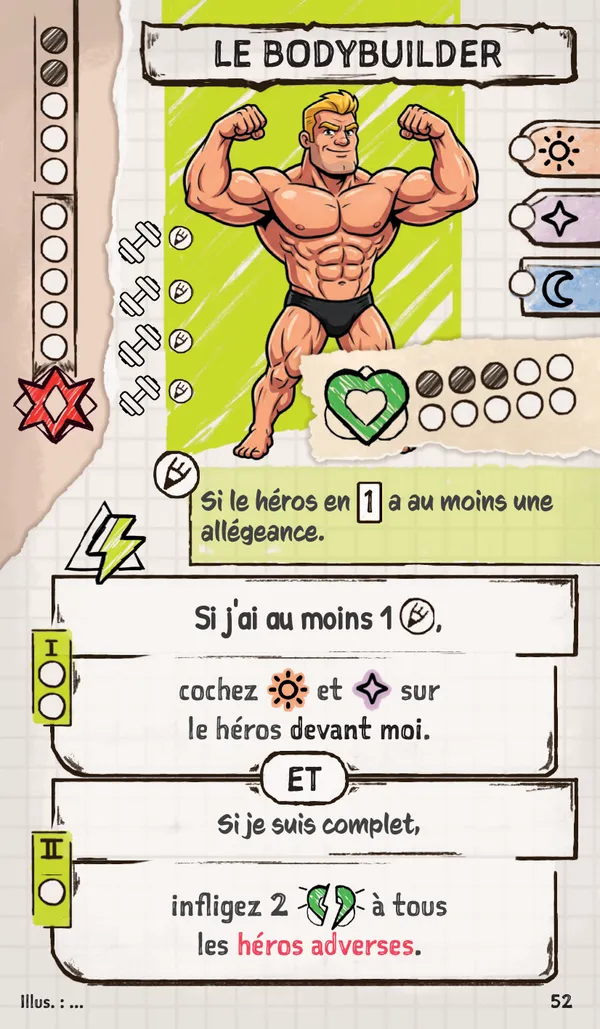
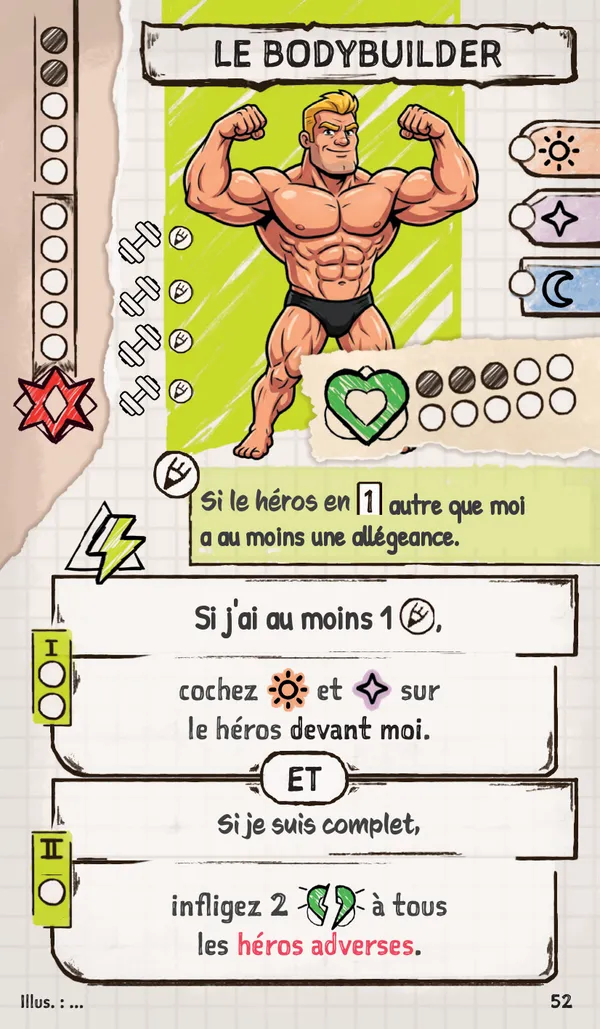
Renard (96) : les 2 héros juste derrière ; Bodybuilder (52) : héros en 1 autre que moi (effet + visuel)
Claude-Session: https://claude.ai/code/session_019mekHYRQE83ZpEVNxP9vDk

Changed region(s): [[0.33, 0.4665, 0.93, 0.5598]]

diff --git a/index.html b/index.html
@@ -679,7 +679,7 @@ const esc = s=>String(s??'').replace(/[&<>"]/g,c=>({'&':'&amp;','<':'&lt;','>':'
 function shuffle(a){a=a.slice();for(let i=a.length-1;i>0;i--){const j=Math.floor(Math.random()*(i+1));[a[i],a[j]]=[a[j],a[i]];}return a;}
 const clone = o=>JSON.parse(JSON.stringify(o));
 const isInter = id=>DEF[id].inter;
-const IMGH={"5": "7ee8f1", "43": "052c27", "67": "3eee60", "3": "4b9e9e", "37": "b505ed", "54": "5415ca", "109": "0a9c47", "46": "e2ade7", "108": "82deba", "95": "1dffec", "16": "00f690", "38": "56299a", "9": "9bb033", "41": "b78ecb", "21": "22446d", "84": "2dd56b", "26": "82aab2", "14": "e6b4e7", "50": "6cb415", "102": "1ab66b", "76": "2eb4c7", "104": "7f0dcf", "72": "23017b", "60": "169c96", "40": "28825a", "89": "e6359d", "79": "9730cd", "51": "532790", "29": "a4c2f8", "22": "500416", "70": "bd9bfe", "81": "3f5809", "27": "81e65a", "20": "c217b4", "6": "f5412f", "57": "426442", "45": "a593e1", "91": "f30c9d", "85": "2bf1a2", "32": "2e3a7e", "61": "c36c55", "106": "7eb120", "25": "ea32ba", "110": "4e478b", "94": "a76237", "53": "ecaf70", "100": "e4ccb3", "36": "1d1919", "63": "9a41e5", "90": "1c2206", "4": "71a7f7", "77": "fe7f0c", "82": "afd262", "96": "307db2", "78": "89ac5d", "30": "062ddf", "86": "980719", "64": "e67db3", "28": "cf4899", "13": "8ce67f", "69": "4dcf20", "107": "a49db5", "80": "28cd29", "101": "a742ad", "103": "a1d90f", "18": "1c663e", "59": "19b498", "65": "b6560b", "97": "264f6c", "31": "7e5139", "10": "a4c75f", "39": "8682b6", "92": "9a7e8f", "11": "7344e1", "62": "27d9af", "111": "0c37d4", "52": "c5a13c", "56": "f2fcc7", "2": "e2ba1f", "66": "d7ed90", "73": "b0a999", "23": "71febb", "15": "ae1e27"};
+const IMGH={"5": "7ee8f1", "43": "052c27", "67": "3eee60", "3": "4b9e9e", "37": "b505ed", "54": "5415ca", "109": "0a9c47", "46": "e2ade7", "108": "82deba", "95": "1dffec", "16": "00f690", "38": "56299a", "9": "9bb033", "41": "b78ecb", "21": "22446d", "84": "2dd56b", "26": "82aab2", "14": "e6b4e7", "50": "6cb415", "102": "1ab66b", "76": "2eb4c7", "104": "7f0dcf", "72": "23017b", "60": "169c96", "40": "28825a", "89": "e6359d", "79": "9730cd", "51": "532790", "29": "a4c2f8", "22": "500416", "70": "bd9bfe", "81": "3f5809", "27": "81e65a", "20": "c217b4", "6": "f5412f", "57": "426442", "45": "a593e1", "91": "f30c9d", "85": "2bf1a2", "32": "2e3a7e", "61": "c36c55", "106": "7eb120", "25": "ea32ba", "110": "4e478b", "94": "a76237", "53": "ecaf70", "100": "e4ccb3", "36": "1d1919", "63": "9a41e5", "90": "1c2206", "4": "71a7f7", "77": "fe7f0c", "82": "afd262", "96": "307db2", "78": "89ac5d", "30": "062ddf", "86": "980719", "64": "e67db3", "28": "cf4899", "13": "8ce67f", "69": "4dcf20", "107": "a49db5", "80": "28cd29", "101": "a742ad", "103": "a1d90f", "18": "1c663e", "59": "19b498", "65": "b6560b", "97": "264f6c", "31": "7e5139", "10": "a4c75f", "39": "8682b6", "92": "9a7e8f", "11": "7344e1", "62": "27d9af", "111": "0c37d4", "52": "b1af61", "56": "f2fcc7", "2": "e2ba1f", "66": "d7ed90", "73": "b0a999", "23": "71febb", "15": "ae1e27"};
 const imgSrc = (id,big)=>{ const t=SETNAME==='test'&&TEST_IMG.has(+id); return `${big?'cards':'thumbs'}${t?'2':''}/${id}.webp${t&&IMGH[id]?'?v='+IMGH[id]:''}`; };
 
 function newCardState(id){
@@ -1165,6 +1165,8 @@ Object.assign(FX[61],{e1:X=>{X.VP(1);DMG(X.allies,X.v(0,0));}});
 Object.assign(FX[77],{e2:X=>SH(X.behindAll.find(all3))});
 Object.assign(FX[82],{e2:X=>{T(X.allies,1);X.VP(2);}});
 Object.assign(FX[11],{e1:X=>{const f=X.facing;X.bf=f;LOSE(f,3);}, c2:X=>!!X.bf&&X.bf.tok<=0});
+Object.assign(FX[96],{c1:X=>{const[a,b]=X.behindAll;return !!a&&!!b&&atk(a)===atk(b);},e1:X=>CV(X.behindAll.slice(0,2),X.v(0,1)),c2:X=>{const[a,b]=X.behindAll;return !!a&&!!b&&a.tok===b.tok;}});  // les 2 héros juste derrière (même après sa mort)
+Object.assign(FX[52],{draw:X=>{ let h=X.at(1); if(h===X.me) h=X.behind; return alN(h)>=1?1:0; }});  // « le héros en 1 autre que moi » : si je suis en 1, c'est celui juste derrière
 
 }
 
